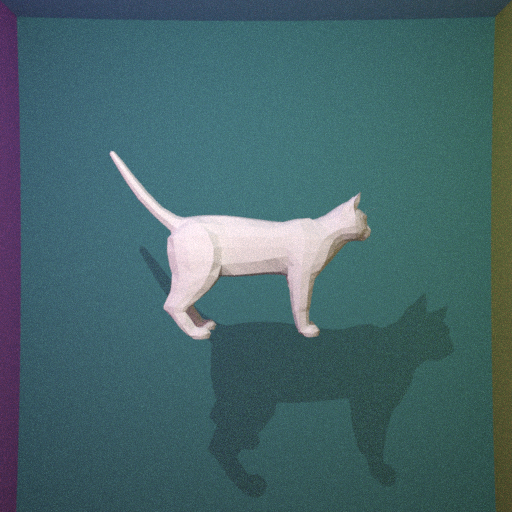
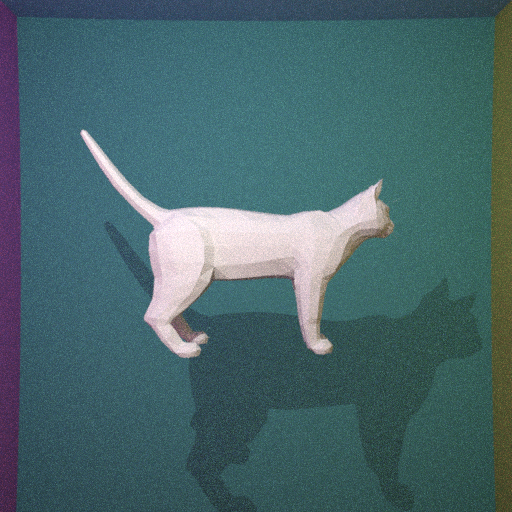
small useless optimizations (actually no use)

Changed region(s): [[0.1562, 0.25, 0.7812, 1.0], [0.5, 0.5312, 0.9375, 1.0]]

diff --git a/main.cpp b/main.cpp
@@ -517,12 +517,13 @@ class TriangleMesh : public Object {
                     Vector e1 = B - A;
                     Vector e2 = C - A;
                     Vector N_prime = cross(e1, e2);
-                    double t_prime =
-                        dot(A - ray.O, N_prime) / dot(ray.u, N_prime);
-                    double beta =
-                        dot(e2, cross(A - ray.O, ray.u)) / dot(ray.u, N_prime);
-                    double gamma =
-                        -dot(e1, cross(A - ray.O, ray.u)) / dot(ray.u, N_prime);
+                    double ray_dot_N = dot(ray.u, N_prime);
+                    if (abs(ray_dot_N) < eps) // ray tangential to object
+                        continue;
+                    Vector A_cross_ray = cross(A - ray.O, ray.u);
+                    double t_prime = dot(A - ray.O, N_prime) / ray_dot_N;
+                    double beta = dot(e2, A_cross_ray) / ray_dot_N;
+                    double gamma = -dot(e1, A_cross_ray) / ray_dot_N;
                     double alfa = 1 - beta - gamma;
                     if (eps < t_prime && t_prime < t &&
                         -eps < std::min(alfa, std::min(beta, gamma)) &&
@@ -1064,7 +1065,7 @@ int main() {
 
     TriangleMesh cat(Vector(1.0, 1.0, 1.0));
     cat.readOBJ("cat/Models_F0202A090/cat.obj");
-    cat.scale_translate(0.5, Vector(0, 0, 0));
+    cat.scale_translate(0.6, Vector(0, 0, 0));
     // cat.add_textures("cat/Models_F0202A090/cat_diff.png"); // textured car!
 
     // cat.readOBJ("maxwell_cat/dingus.obj", true);
